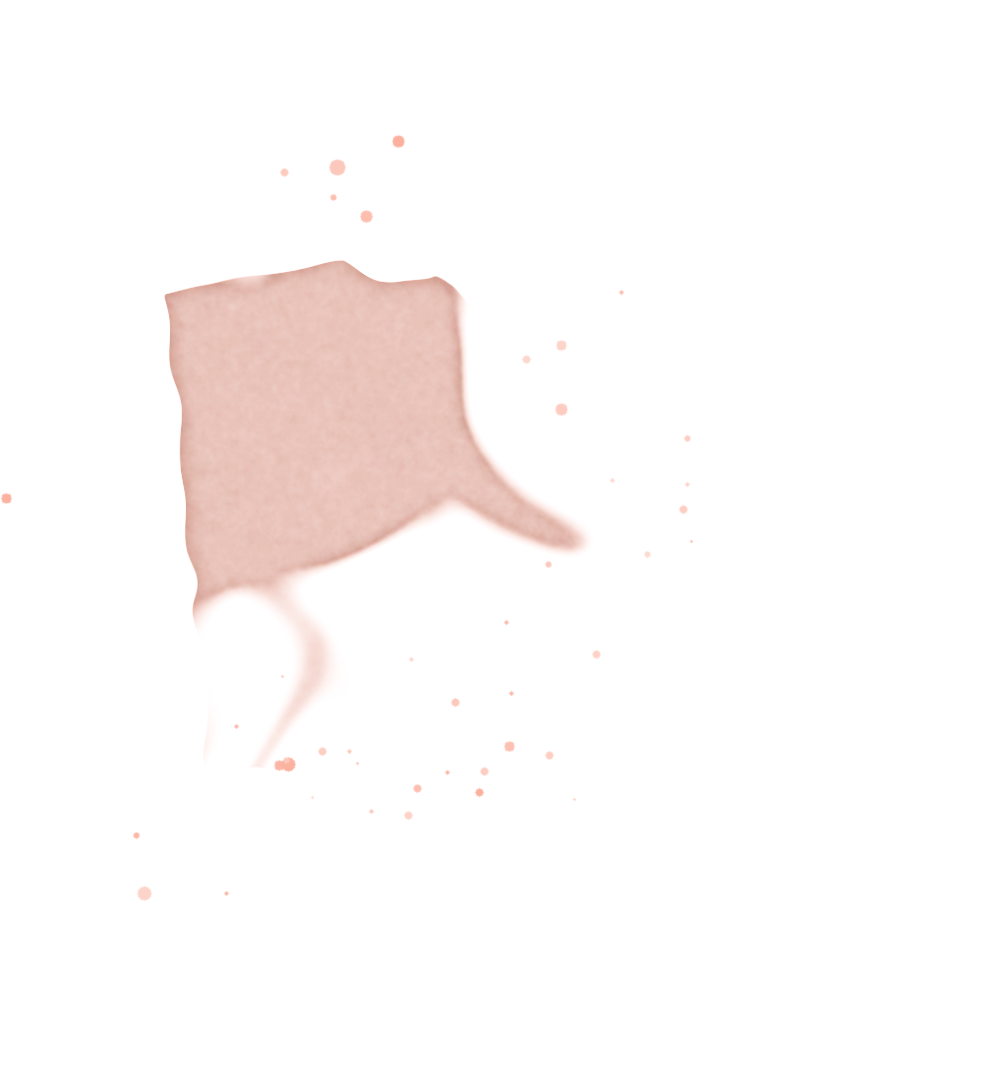
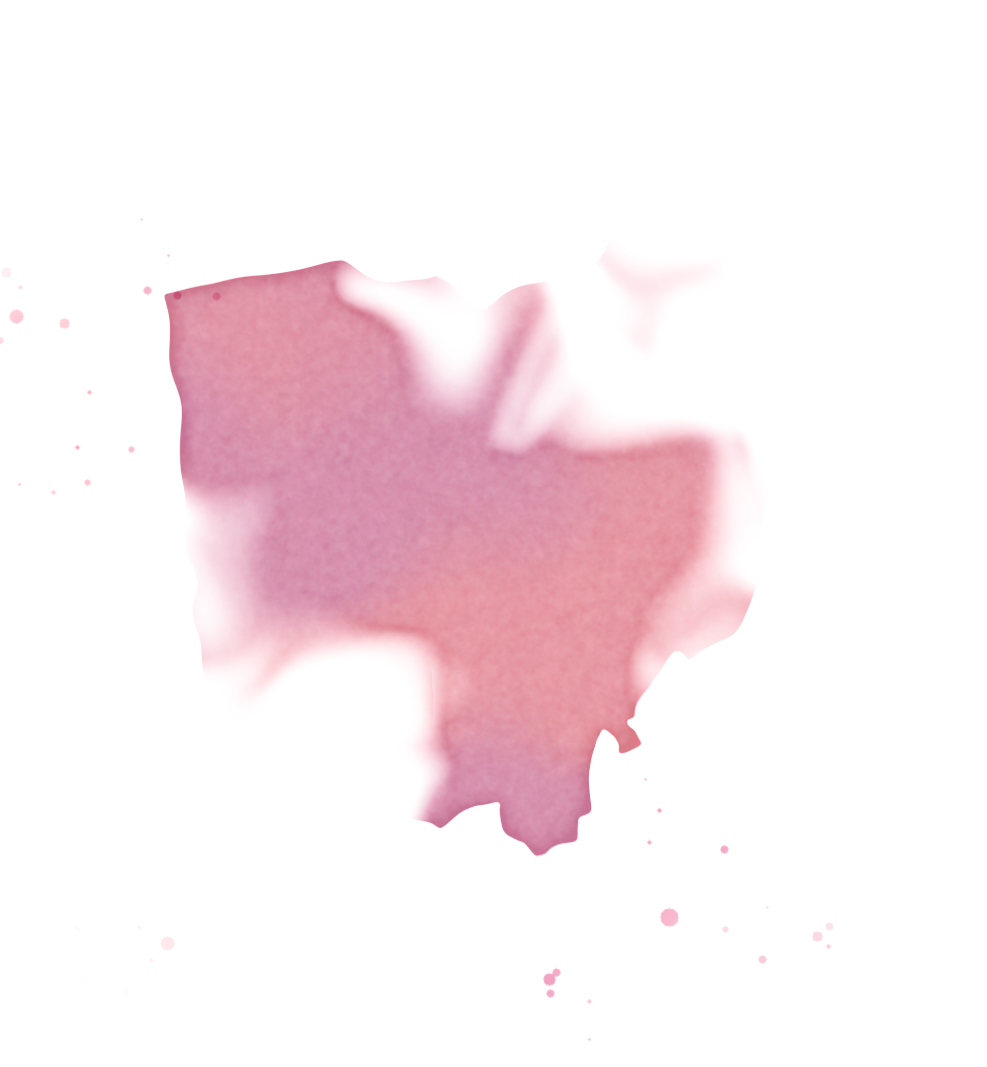
Repaint Ohio as one sweep (blue, magenta, orange, gold) that fades in over the whole state
Claude-Session: https://claude.ai/code/session_01RtqZca3XnG1cdphB7sZLkx

diff --git a/css/home.css b/css/home.css
@@ -2,15 +2,13 @@
 
 /* ===== OHIO WATERCOLOR REVEAL =====
    The stage and frame live in site.css. Here each paint layer starts hidden and is
-   revealed top to bottom, like a wash running down the page, as its pillar scrolls in. */
+   faded in over the whole state as its pillar scrolls in, so color builds up gradually. */
 .ohio-frame .wash {
   opacity: 0;
-  clip-path: inset(0 0 100% 0);
-  transition: opacity 3s ease, clip-path 4.5s cubic-bezier(0.3, 0.7, 0.25, 1);
+  transition: opacity 3.5s ease;
 }
 .ohio-frame .wash.shown {
   opacity: 1;
-  clip-path: inset(0 0 0 0);
 }
 
 .hero, .belong, .pillars-section, .closing { position: relative; z-index: 1; }
